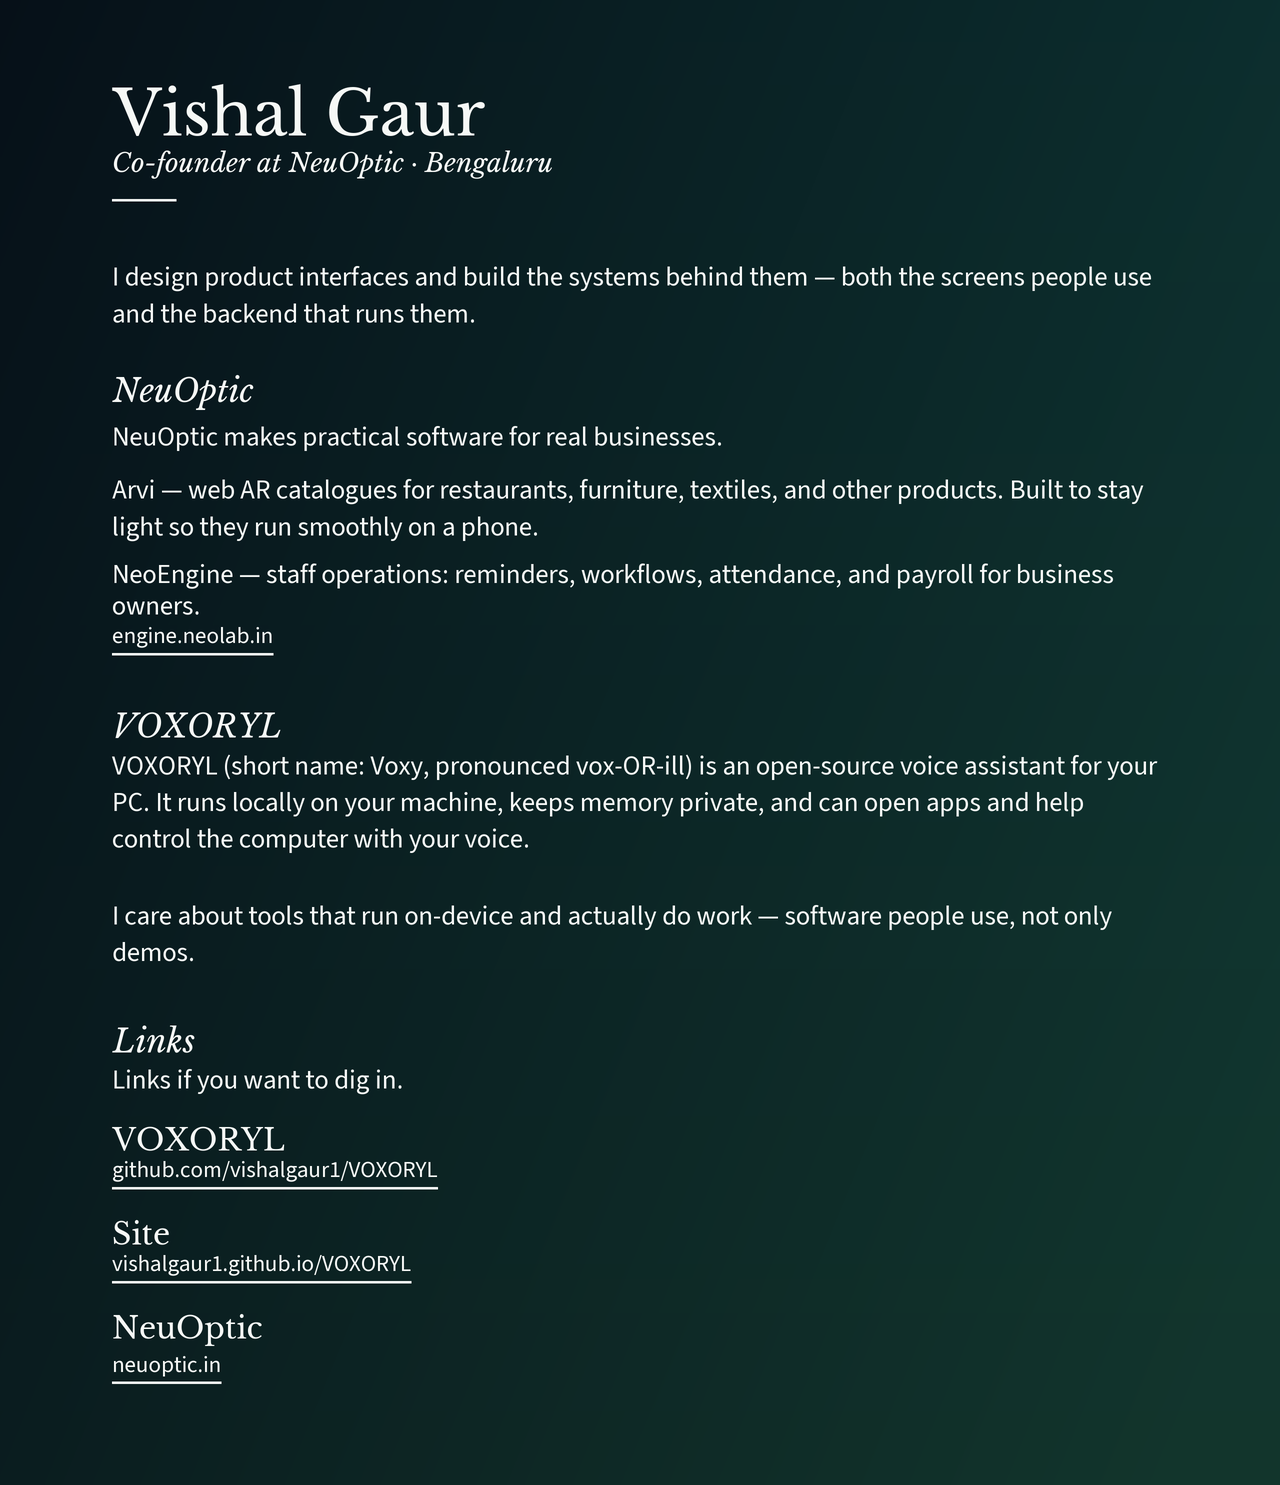
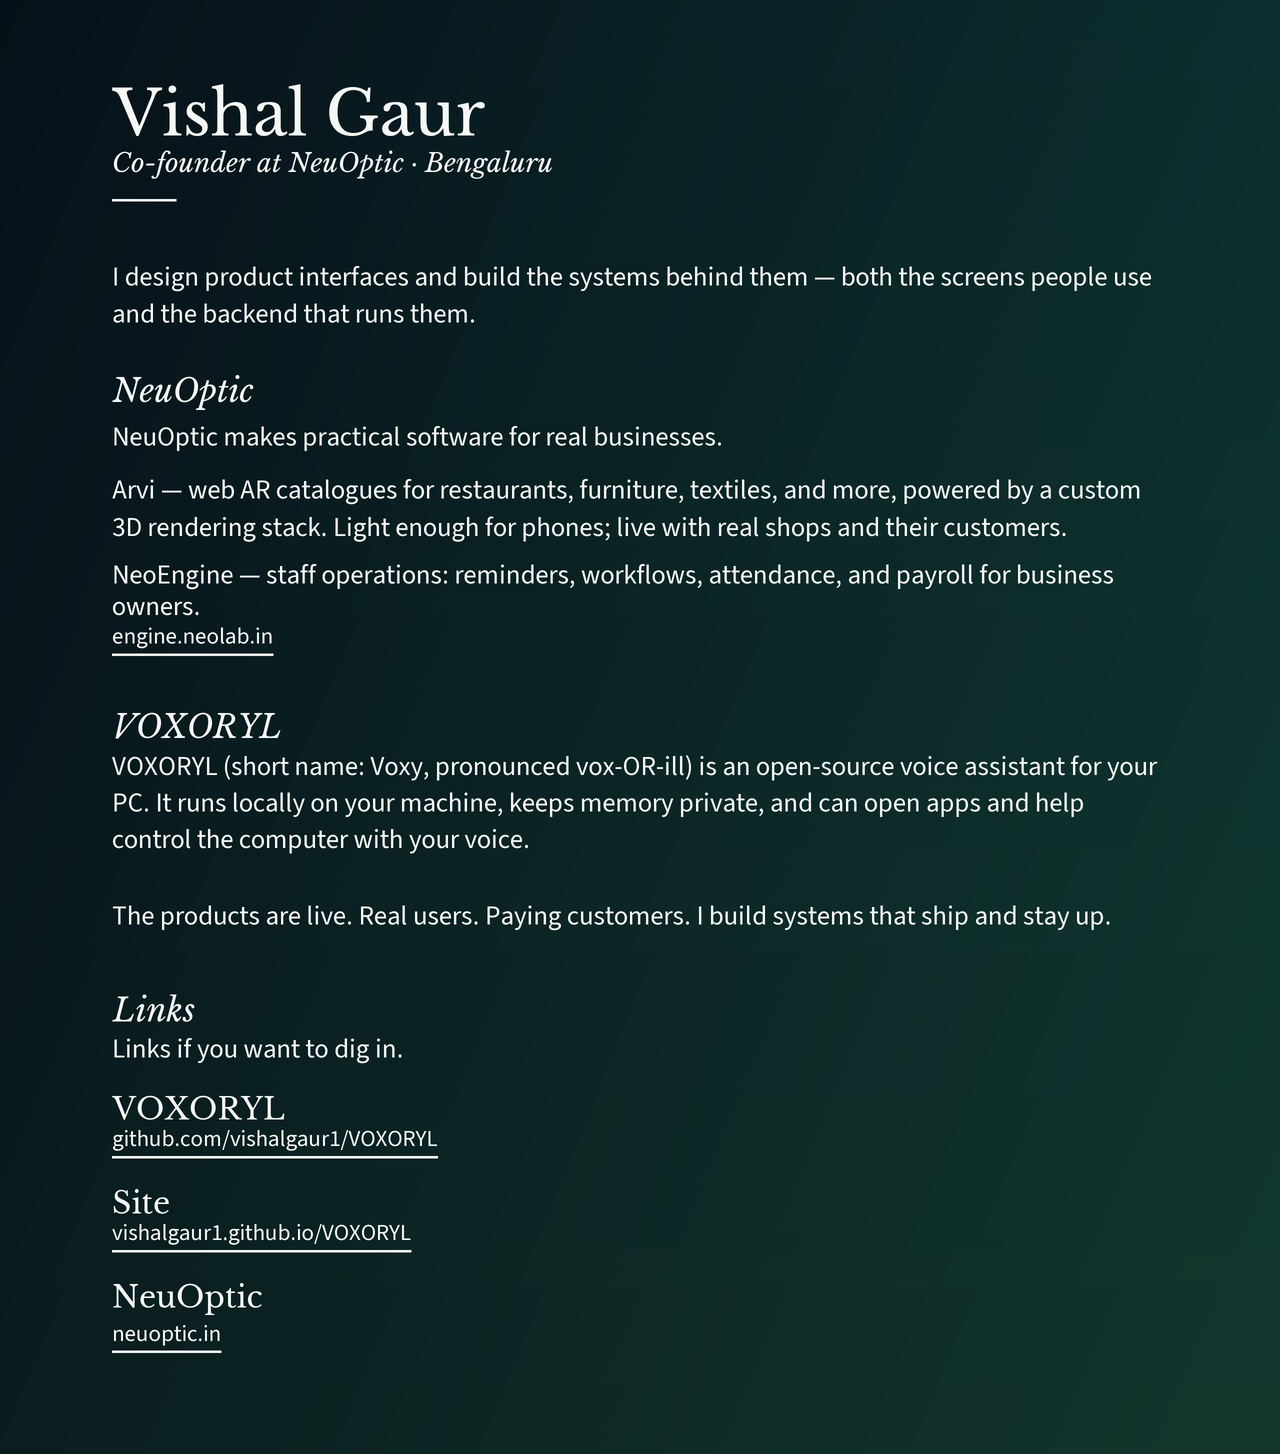
Refresh profile art: Arvi 3D stack flex and live-product close.

diff --git a/scripts/compose_profile_assets.py b/scripts/compose_profile_assets.py
@@ -177,7 +177,8 @@ def compose(metrics: ImageDraw.ImageDraw) -> Image.Image:
         ),
         "arvi": (
             "Arvi — web AR catalogues for restaurants, furniture, textiles, "
-            "and other products. Built to stay light so they run smoothly on a phone."
+            "and more, powered by a custom 3D rendering stack. Light enough "
+            "for phones; live with real shops and their customers."
         ),
         "neo": (
             "NeoEngine — staff operations: reminders, workflows, attendance, "
@@ -189,8 +190,8 @@ def compose(metrics: ImageDraw.ImageDraw) -> Image.Image:
             "memory private, and can open apps and help control the computer with your voice."
         ),
         "why": (
-            "I care about tools that run on-device and actually do work — "
-            "software people use, not only demos."
+            "The products are live. Real users. Paying customers. "
+            "I build systems that ship and stay up."
         ),
         "now": "Links if you want to dig in.",
     }

diff --git a/README.md b/README.md
@@ -1,1 +1,1 @@
-<img src="https://raw.githubusercontent.com/vishalgaur1/vishalgaur1/main/assets/profile.png?v=12" width="100%" alt="Vishal Gaur. Co-founder at NeuOptic, Bengaluru. Designs product interfaces and builds the systems behind them — screens people use and the backend that runs them. NeuOptic makes practical software: Arvi is web AR catalogues for restaurants, furniture, textiles, and other products, built light for phones. NeoEngine is staff operations — reminders, workflows, attendance, and payroll. https://engine.neolab.in VOXORYL (Voxy, pronounced vox-OR-ill) is an open-source local voice assistant for your PC: on-device, private memory, can open apps and help control the computer. Prefers tools that run on-device and actually do work. VOXORYL: https://github.com/vishalgaur1/VOXORYL Site: https://vishalgaur1.github.io/VOXORYL/ NeuOptic: https://neuoptic.in" />
+<img src="https://raw.githubusercontent.com/vishalgaur1/vishalgaur1/main/assets/profile.png?v=13" width="100%" alt="Vishal Gaur. Co-founder at NeuOptic, Bengaluru. Designs product interfaces and builds the systems behind them — screens people use and the backend that runs them. NeuOptic makes practical software: Arvi is web AR catalogues powered by a custom 3D rendering stack, light enough for phones, live with real shops and customers. NeoEngine is staff operations — reminders, workflows, attendance, and payroll. https://engine.neolab.in VOXORYL (Voxy, pronounced vox-OR-ill) is an open-source local voice assistant for your PC: on-device, private memory, can open apps and help control the computer. The products are live. Real users. Paying customers. I build systems that ship and stay up. VOXORYL: https://github.com/vishalgaur1/VOXORYL Site: https://vishalgaur1.github.io/VOXORYL/ NeuOptic: https://neuoptic.in" />
